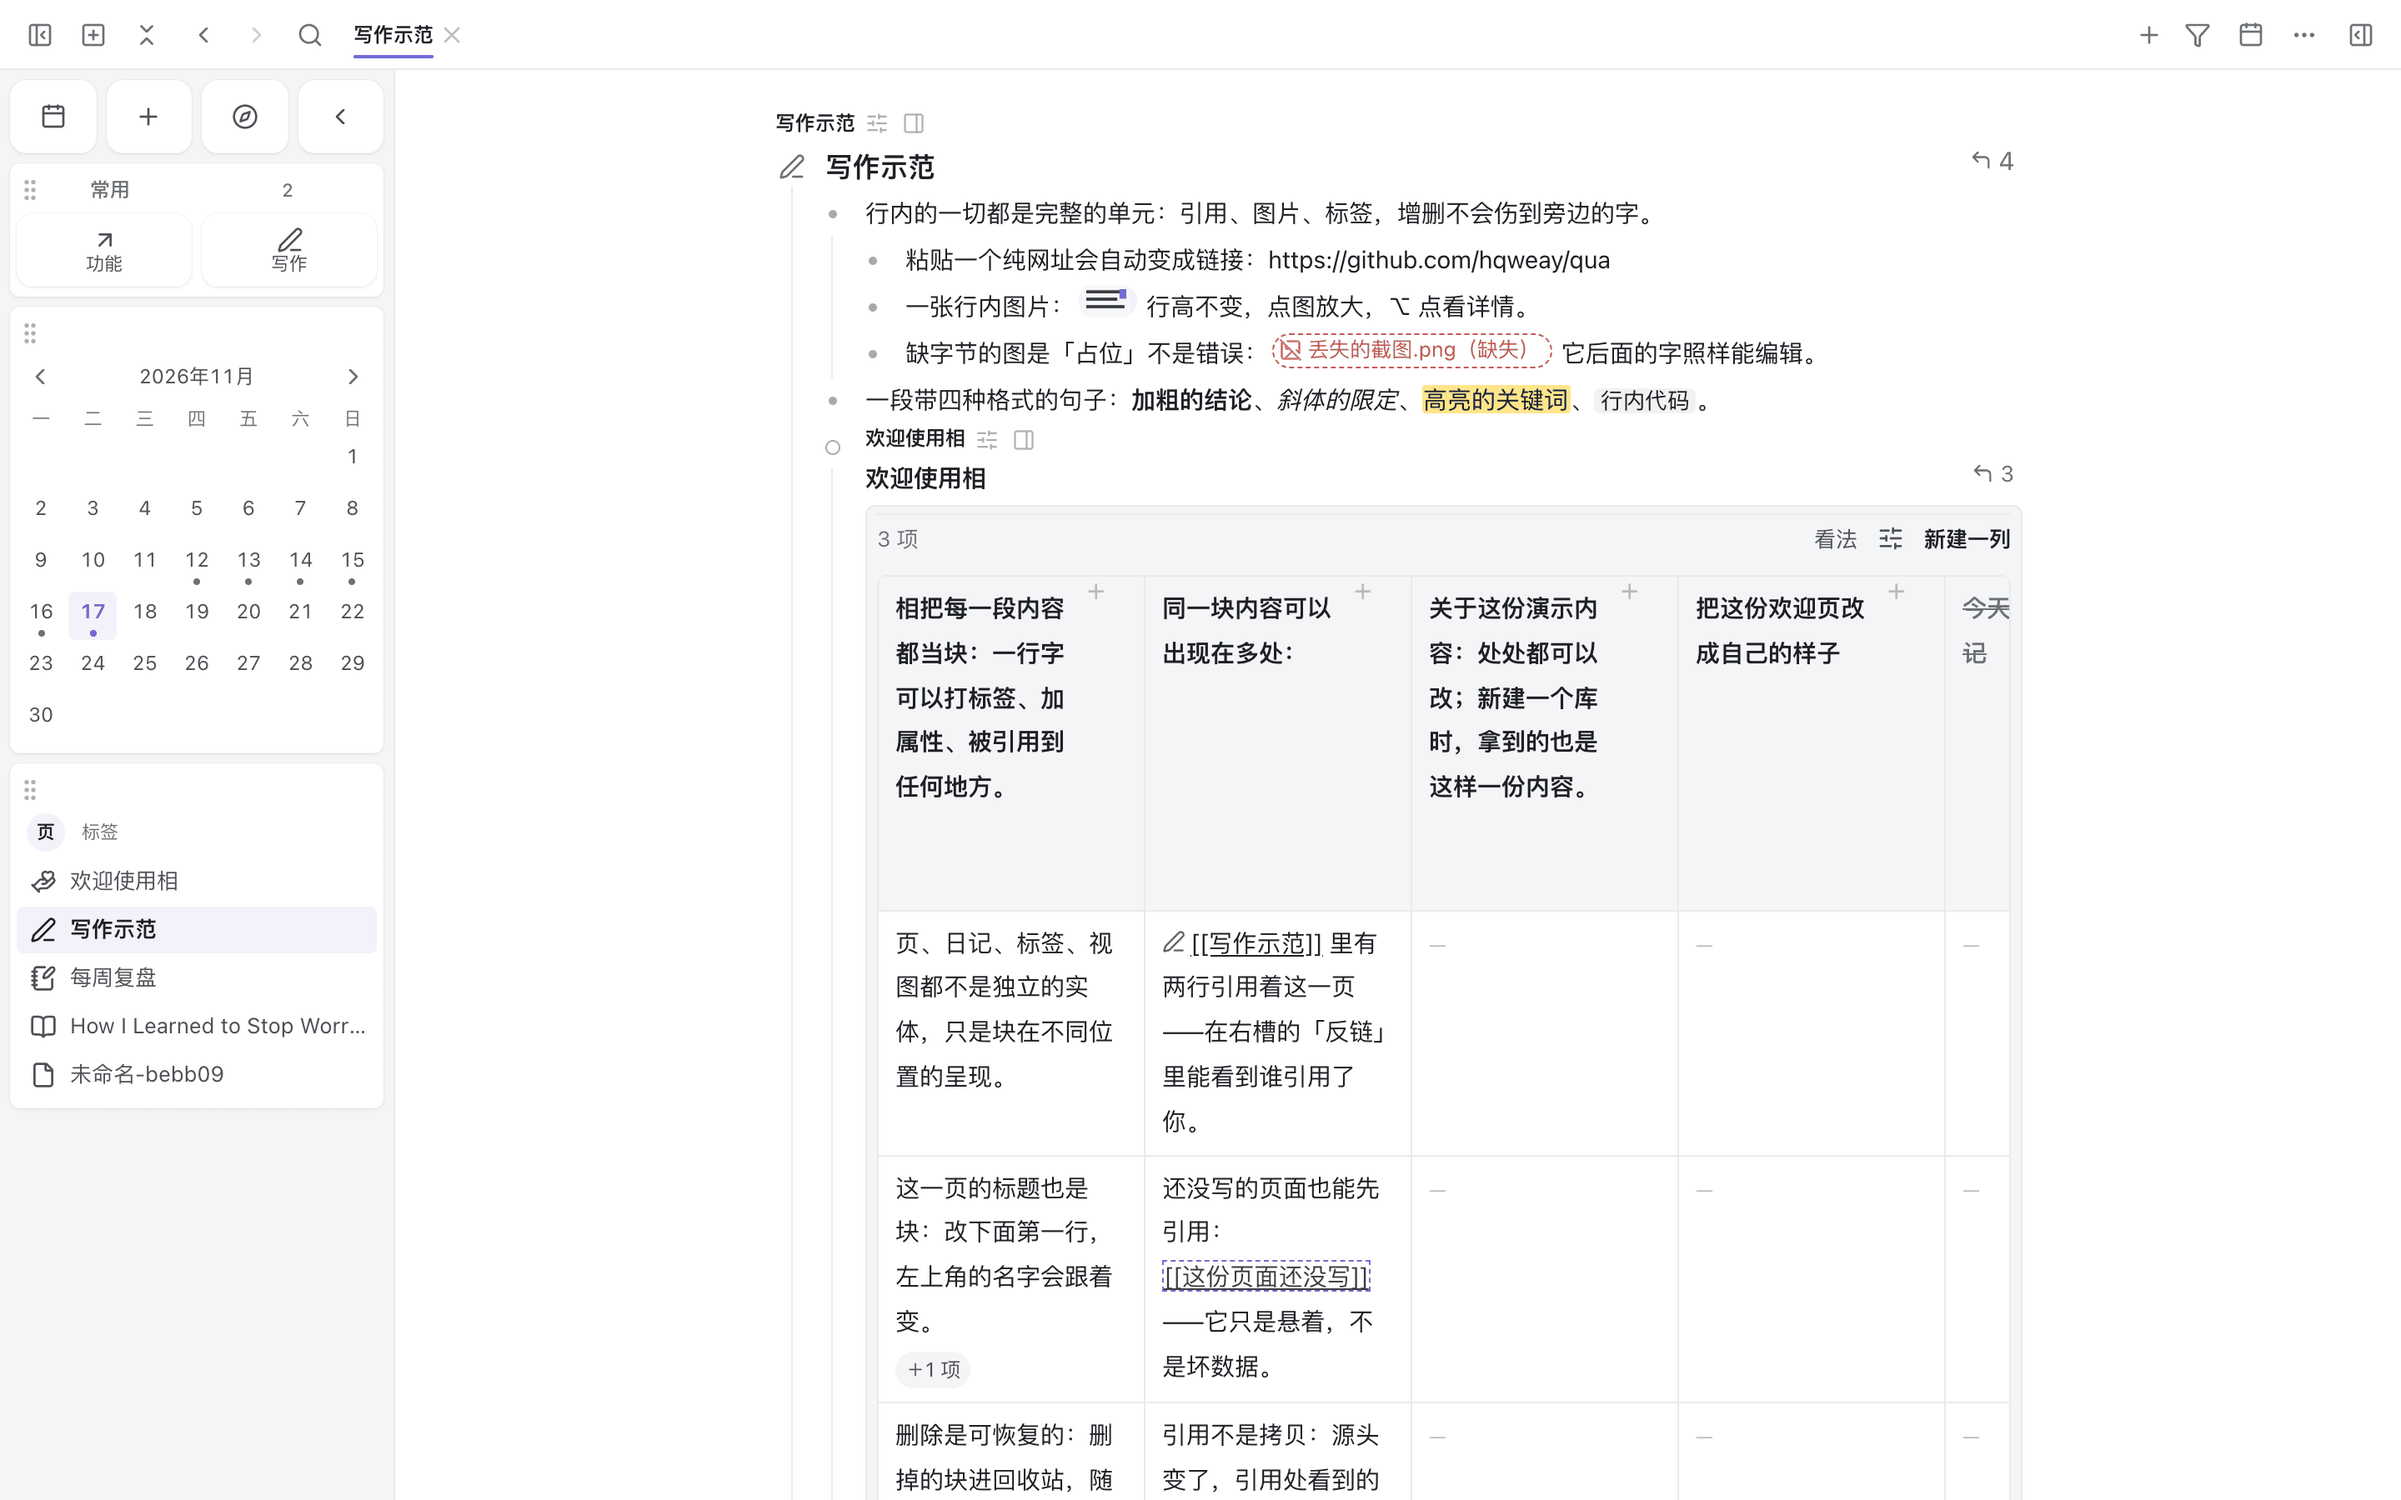
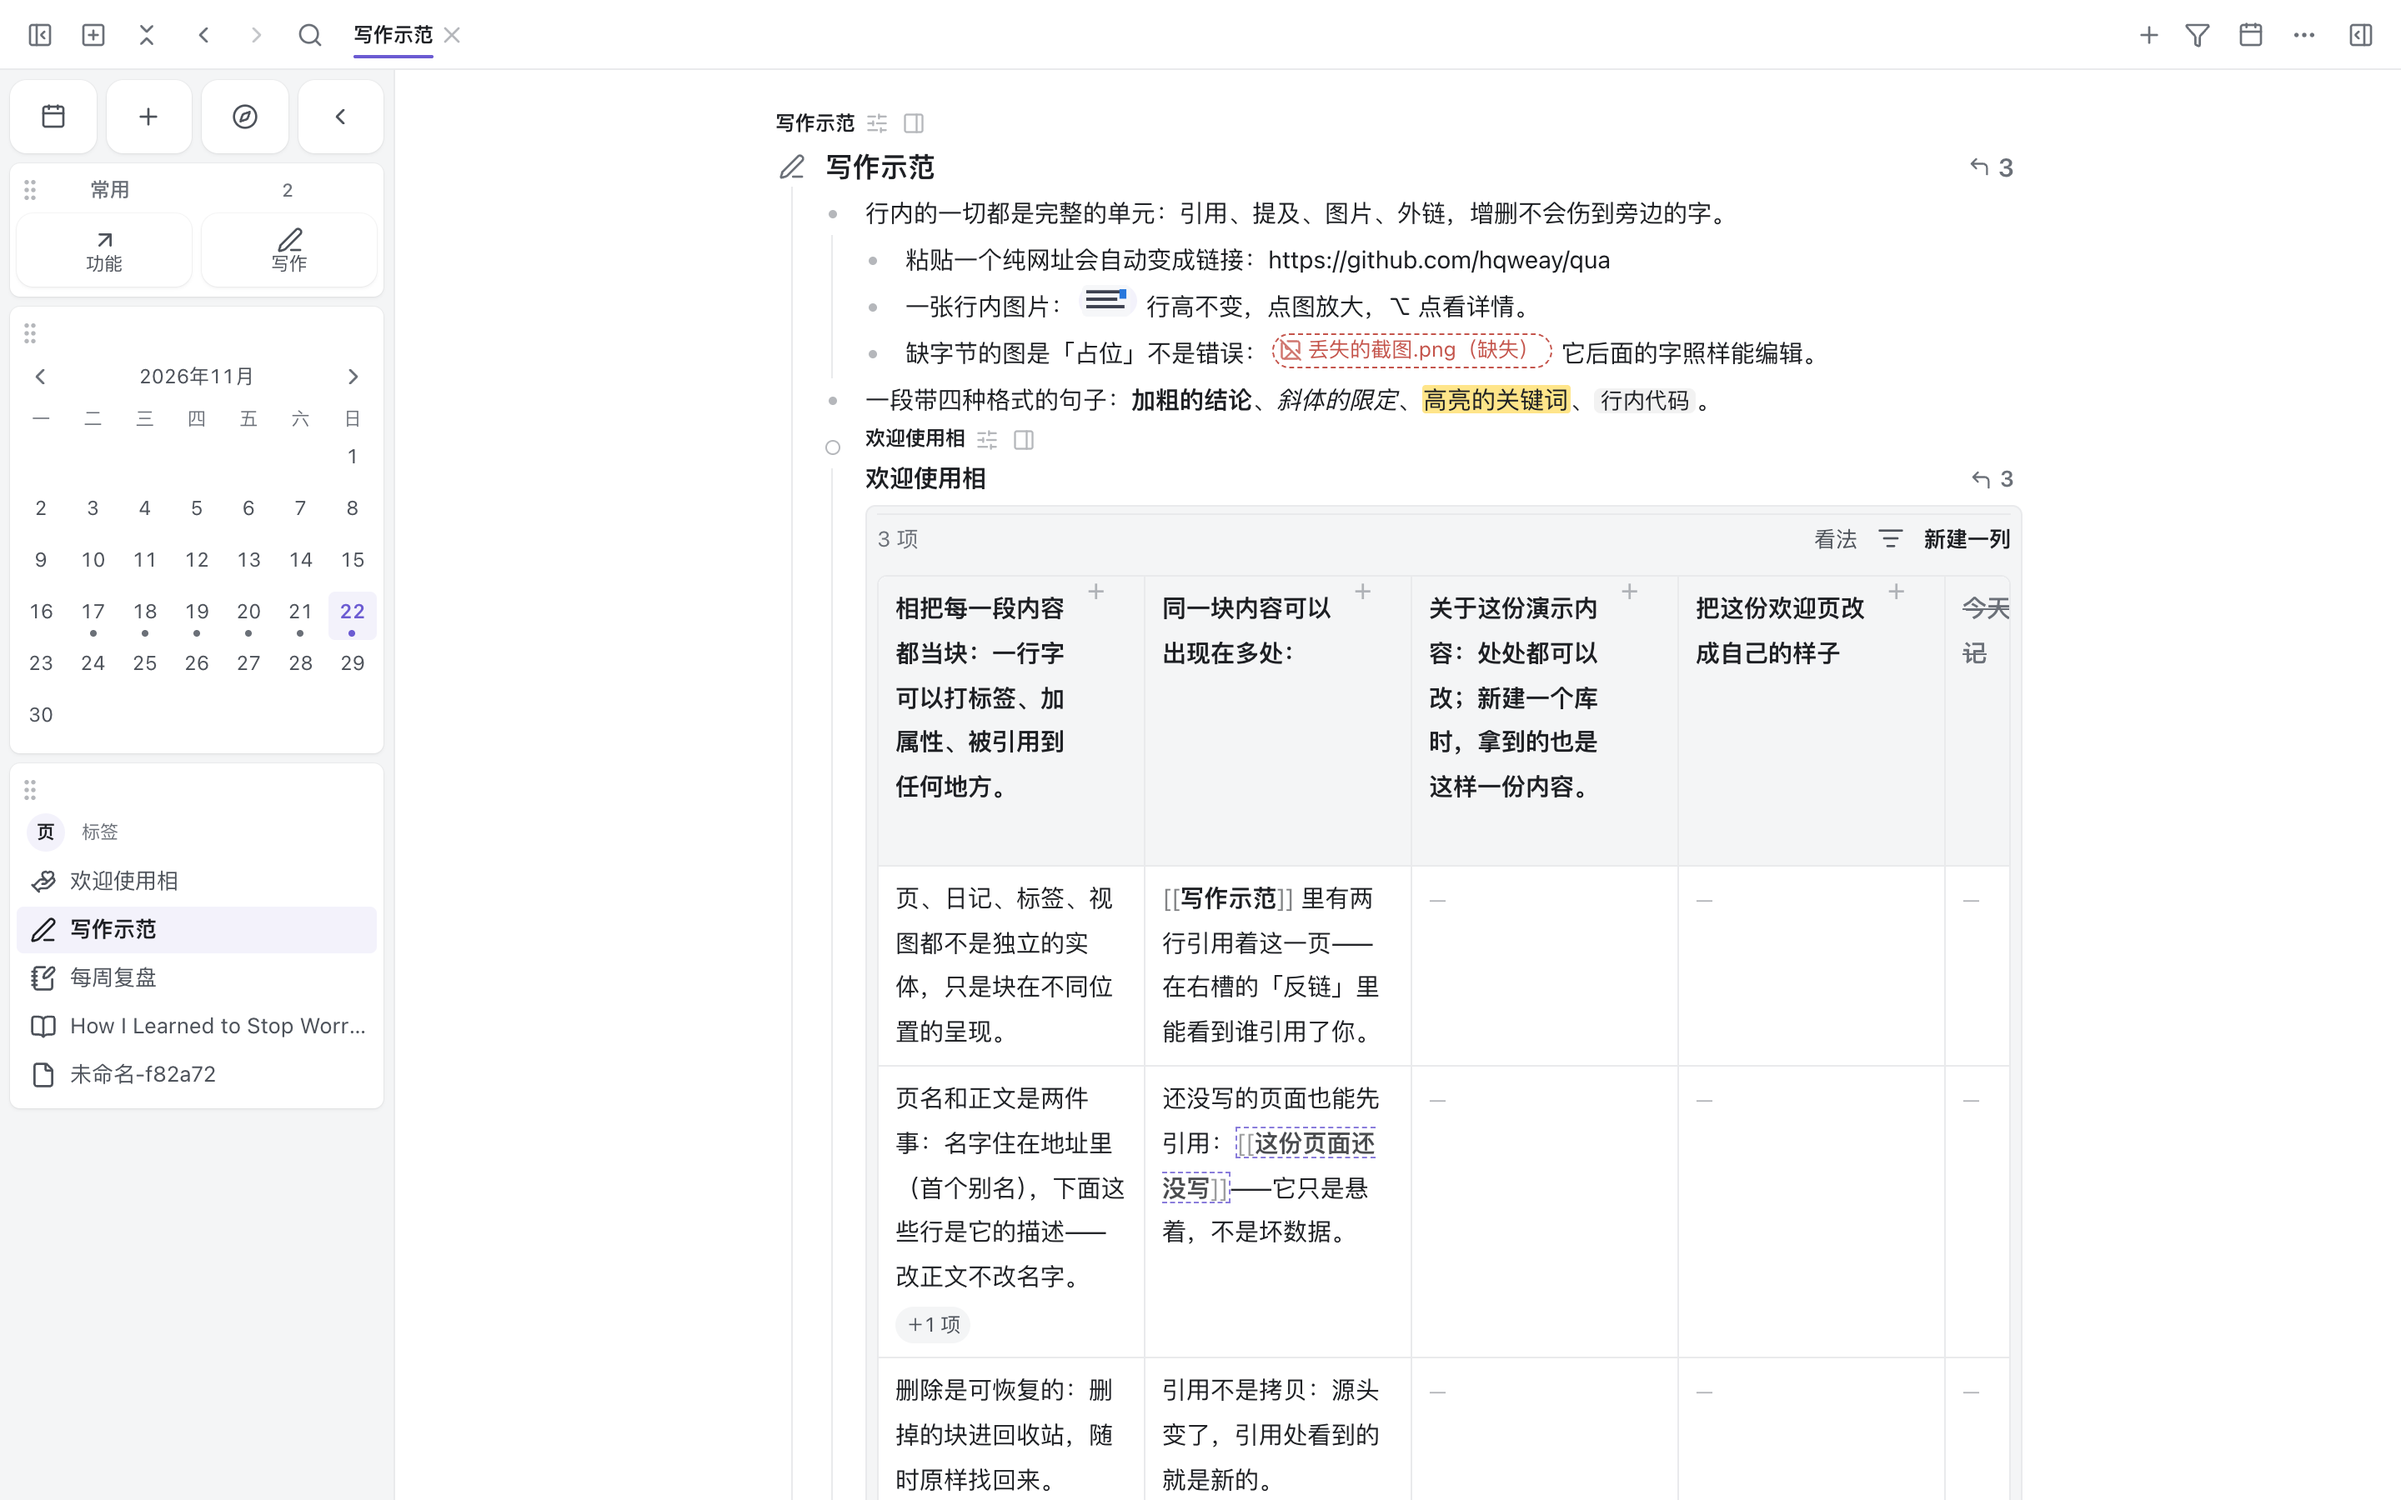
docs(readme): 重写 README，按当前产品口径重排
- 新增「正文里的形状语言」一节：页引用、行内提及、行尾归属 chip、字段三角、
  块取名后的 @ 提及——关系决定形状，身份决定颜色，这条现在是用户第一眼要认的东西。
- 「它特别在哪」补上「值与分类分开」「名字和正文分开」两条，都是最近几轮定下的模型口径。
- 快捷键表跟上：选中多块改成 ⇧⌘A（原来写「连按两次 ⌘A」），补上 ⇧Enter 建子块。
- 架构图链接改指演示站上的现算版本（仓库里那份是模板，占位符未填）。
- 截图按新种子重拍。

Changed region(s): [[0.375, 0.5911, 0.5625, 0.9956], [0.5, 0.1244, 0.7188, 0.1556], [0.0625, 0.7156, 0.0938, 0.7467]]

diff --git a/README.md b/README.md
@@ -44,10 +44,14 @@
 不是三份拷贝。几个具体的性质：
 
 - **一块内容，多处出现。** 镜像到另一页、钉进侧槽窗口、被查询捞出来——都是同一块，
-  在哪里都能直接编辑，改动处处同步。
-- **删除是可恢复的。** 删掉的块进回收站，恢复后名字、属性、被谁引用的关系都原样回来。
+  在哪里都能直接编辑，改动处处同步。删除也是可恢复的：删掉的块进回收站，
+  恢复后名字、属性、被谁引用的关系都原样回来。
+- **值与分类分开。** 一块「属于」哪些标签，和它身上填了哪些字段的值是两件事：
+  标签给归类，字段给值。同一个标签可以给成员声明字段，成员各自填、各自显示。
 - **看法与数据分离。** 同一批内容可以从大纲、表格、看板、日历等不同角度去看，
   换看法不重排数据，改看法也不动你的内容。
+- **名字和正文分开。** 页名、标签名是地址，正文是描述。改正文不会改名字；
+  引用永远显示目标当前的名字，目标改名，所有引用跟着变。
 
 这个设计背后的模型（页、日记、标签、视图为何都能还原成块）写在
 [`docs/模型-一切皆块.md`](docs/模型-一切皆块.md)，感兴趣再读，不读不影响使用。
@@ -59,12 +63,12 @@
 ## 能做什么
 
 **写**：正文是一棵可编辑的块树。加粗、斜体、高亮、行内代码、文字与背景色随文字走；
-`[[引用]]`、`#标签`、`@提及`、外链、图片都是完整的行内单元，增删不会伤到旁边的字——
+`[[引用]]`、`#提及`、`@提及`、外链、图片都是完整的行内单元，增删不会伤到旁边的字——
 行尾删除不会把引用拆成几行字，删字也不会把标签变成几个 `#`。
 粘贴一个纯网址会自动变成链接。输入法组合期间快捷键自动让路，中文输入不受干扰。
 选中一段字，还能从划选气泡里写**备注**（批注跟字走）或设置颜色；
 同一父块下的跨块选区可以直接删改（首尾两段拼成一块）。选中多块可以整组拖动、
-批量删除与缩进——连按两次 `⌘A` 就从「选中这一行的字」升级成「选中这些块」。
+批量删除与缩进——`⌘⇧A` 把「这一行的字」升级成「这些块」。
 
 ![斜杠菜单：行首敲 /，就地插入待办、查询块、引用、日期、图片](shots/overlay-斜杠菜单.png)
 
@@ -99,16 +103,36 @@
 
 ---
 
+## 正文里的形状语言
+
+一段正文里可以同时住着几种原子。形状本身就是关系：
+
+| 写出来 | 是什么 | 怎么认 |
+|---|---|---|
+| `[[页名]]` | 页引用 | 粗体＋双方括号；点开即达，`Shift+点击` 在侧槽开窗 |
+| `#名字` | 行内**提及** | 占正文一格；不会替你打上标签，也不会让这块成为它的成员 |
+| 行尾 chip | 标签**归属** | 由块自己的标签决定；删掉正文里的字不会摘掉它，要摘得在检视卡里显式摘 |
+| 三角（在 chip 左侧） | 这个标签有字段 | 点开就地填值；没有字段的标签不硬画三角 |
+| `@名字` | 提及带地址的块 | 给普通块起名之后，它和页一样能被 `@` 到 |
+| 图片／外链 | 行内原子 | 图片按内容寻址，贴两次只存一份；外链点一下交给系统浏览器 |
+
+标签是「这份内容属于谁」，字段值是「这份内容自己带着什么」——两件事分开之后，
+删字、改名、移动都不会互相误伤。
+
+---
+
 ## 常用快捷键
 
 | 键 | 做什么 |
 |---|---|
-| `Enter` / `Tab` | 按落点建块 / 缩进 |
-| `⌘⏎` | 切换待办 |
+| `Enter` / `⇧Enter` | 在落点建同级 / 建子块 |
+| `Tab` / `⇧Tab` | 缩进 / 反缩进 |
+| `⌘⏎` | 切换待办完成 |
 | `⌘B` / `⌘I` / `⌘E` / `` ⌘` `` | 加粗 / 斜体 / 高亮 / 行内代码（先选中文字） |
-| `⌘⇧K` / `@` / `#` | 插入引用 / 提及页或块 / 标签 |
+| `⌘⇧K` / `@` / `#` | 插入引用 / 提及页或块 / 提及标签 |
 | `⌘.` | 折叠 / 展开当前块 |
 | `⌘Z` / `⌘⇧Z` | 撤销 / 重做（编辑器聚焦时） |
+| `⌘⇧A` | 选中这一行 → 这些块 |
 | `⌘P` | 命令面板 |
 | `⌘K` | 全局搜索（随时可用；插入链接在斜杠菜单和块菜单里） |
 | `⌘T` / `⌘⇧R` | 回到今日日记 / 复盘最近三天 |
@@ -169,7 +193,8 @@ pnpm build:mac      # 出 .app 与 .dmg（release/ 目录）
 
 架构上分五层：`core ← view ← ui ← app ← host`，模型层零 DOM、命令不碰页面元素，
 结构约束由 `pnpm arch:check` 静态执行。可视化与更多文档：
-[`public/arch.html`](public/arch.html) · [`docs/ARCH-断言.md`](docs/ARCH-断言.md) · [`docs/ELECTRON-备忘.md`](docs/ELECTRON-备忘.md)。
+[`https://qua.leay.net/arch.html`](https://qua.leay.net/arch.html) ·
+[`docs/ARCH-断言.md`](docs/ARCH-断言.md) · [`docs/ELECTRON-备忘.md`](docs/ELECTRON-备忘.md)。
 
 ---
 
